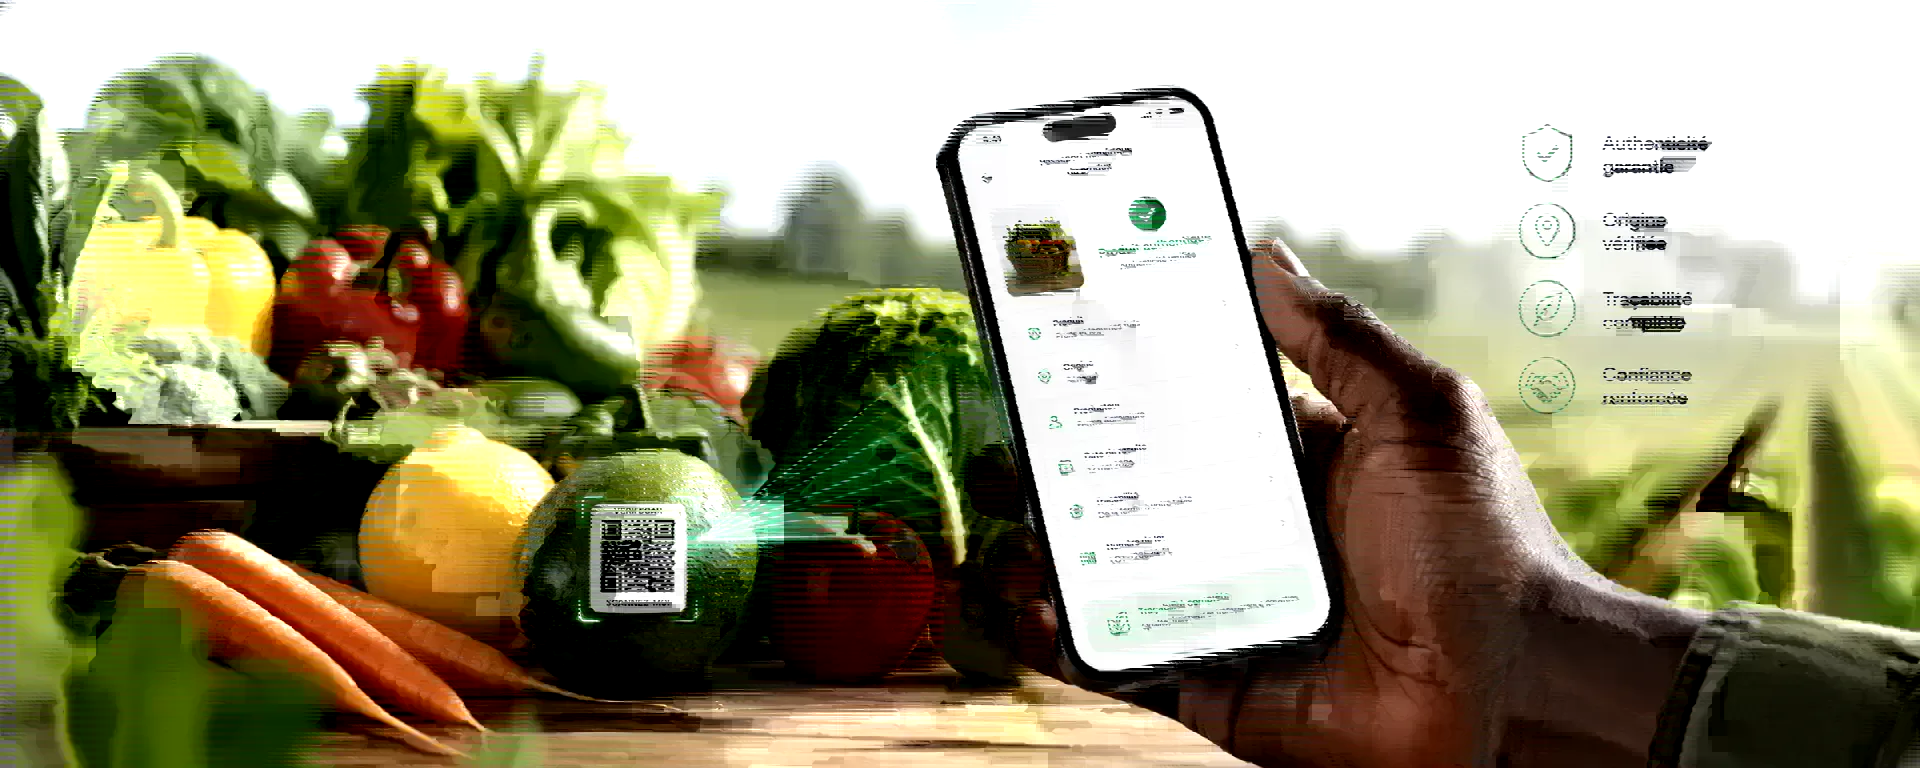
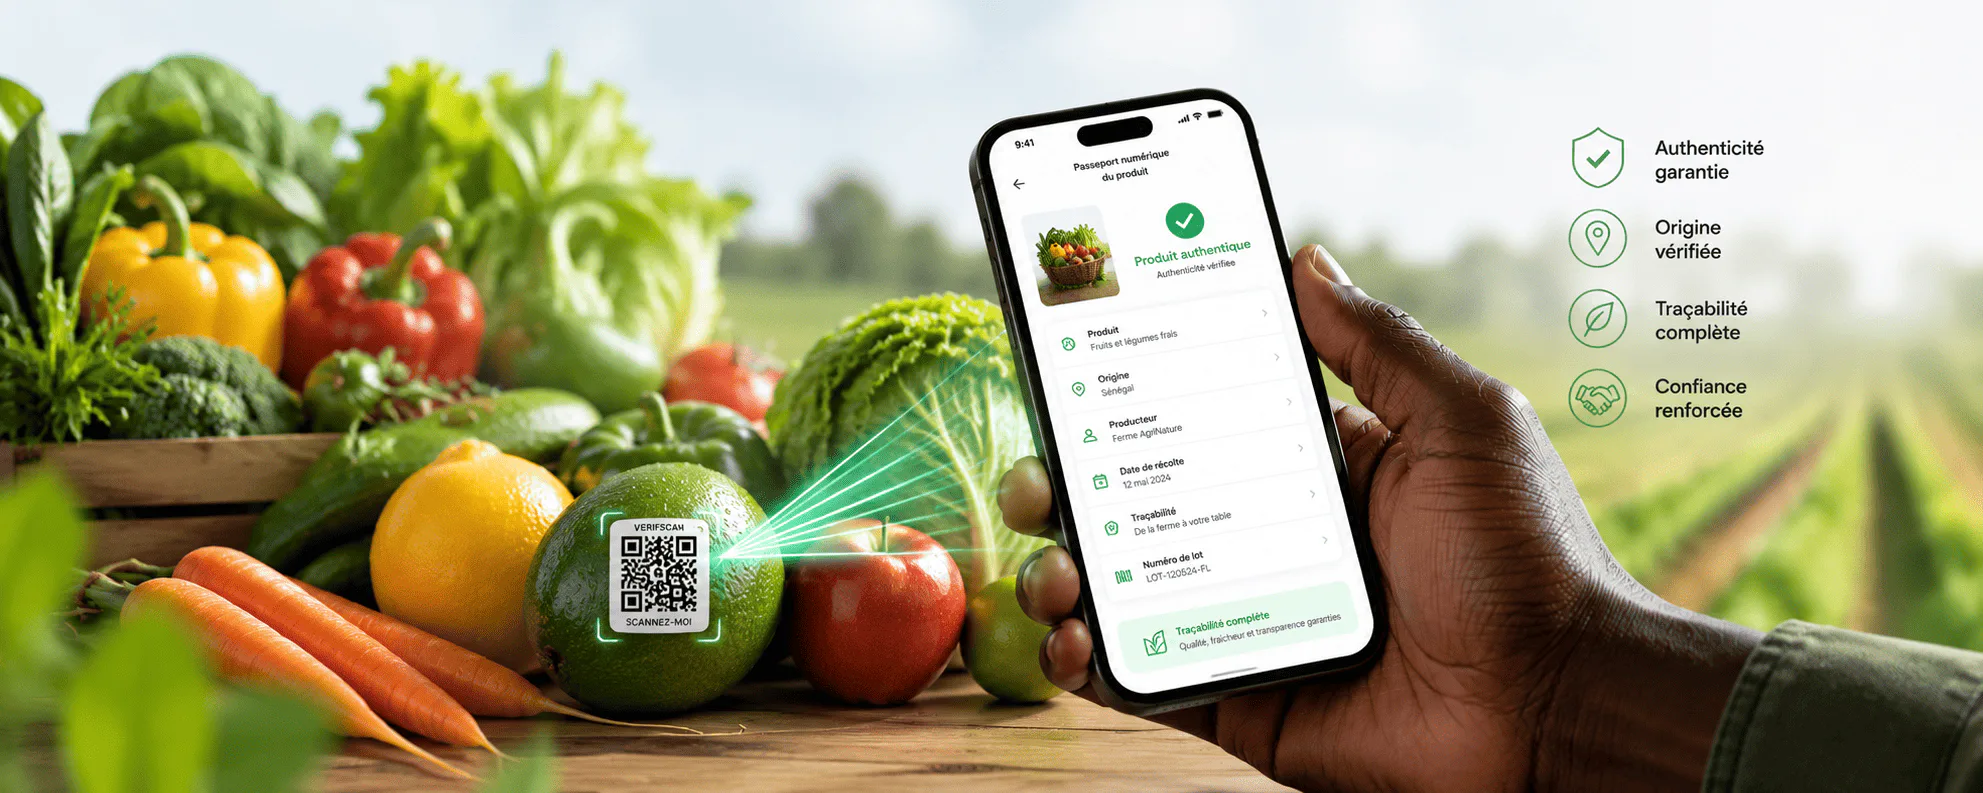
feat(hero): replace slider images with new compressed set
- Replaced all 3 hero slides with new product visuals:
  slide 1: huile pure Natura scan
  slide 2: jus d'orange 100% naturel scan
  slide 3: avocat + légumes frais scan
- Compressed via sharp (scripts/compress-hero.mjs):
  WebP q82 smart-subsample: 146-199 KB (66-74% smaller than source)
  PNG palette 256 colors: 430-524 KB (10-20% smaller than source)
- Updated alt texts with accurate VLM-generated descriptions
- Deleted unreferenced original PNGs (hero-slide-{1,2,3}.png, ~5.4 MB
  total) — they were never referenced by Hero.tsx (which uses -opt
  variants), just bloating the Docker image and git repo
- Verified via agent-browser + VLM: renders correctly, no white gaps,
  sharp at 1440px viewport

diff --git a/src/components/landing/Hero.tsx b/src/components/landing/Hero.tsx
@@ -42,17 +42,17 @@ const SLIDES: Slide[] = [
   {
     webpSrc: "/hero-slide-1.webp",
     pngSrc: "/hero-slide-1-opt.png",
-    alt: "VerifScan — scan d'une bouteille de jus d'orange 100% naturel avec un smartphone, affichant le passeport numérique du produit : origine Sénégal, producteur Vergers de Casamance, authenticité vérifiée.",
+    alt: "VerifScan — une main tient un smartphone affichant l'application qui confirme l'authenticité d'une huile pure Natura après le scan de son QR code.",
   },
   {
     webpSrc: "/hero-slide-2.webp",
     pngSrc: "/hero-slide-2-opt.png",
-    alt: "VerifScan — Authenticité vérifiée, confiance renforcée. Un scan garantit l'authenticité de vos produits et protège votre marque contre la contrefaçon.",
+    alt: "VerifScan — une main scanne le QR code d'une bouteille de jus d'orange 100% naturel, affichant sur l'écran du smartphone la confirmation « Produit authentique » avec les détails d'origine, ingrédients et traçabilité garantie.",
   },
   {
     webpSrc: "/hero-slide-3.webp",
     pngSrc: "/hero-slide-3-opt.png",
-    alt: "VerifScan — scan d'un QR code sur un avocat pour tracer des fruits et légumes frais, avec sur l'écran du téléphone : authenticité garantie, origine vérifiée, traçabilité complète et confiance renforcée.",
+    alt: "VerifScan — un smartphone scanne un QR code sur un avocat au milieu de légumes frais, affichant l'écran « Passeport numérique du produit » confirmant un « Produit authentique » avec traçabilité complète.",
   },
 ];
 
